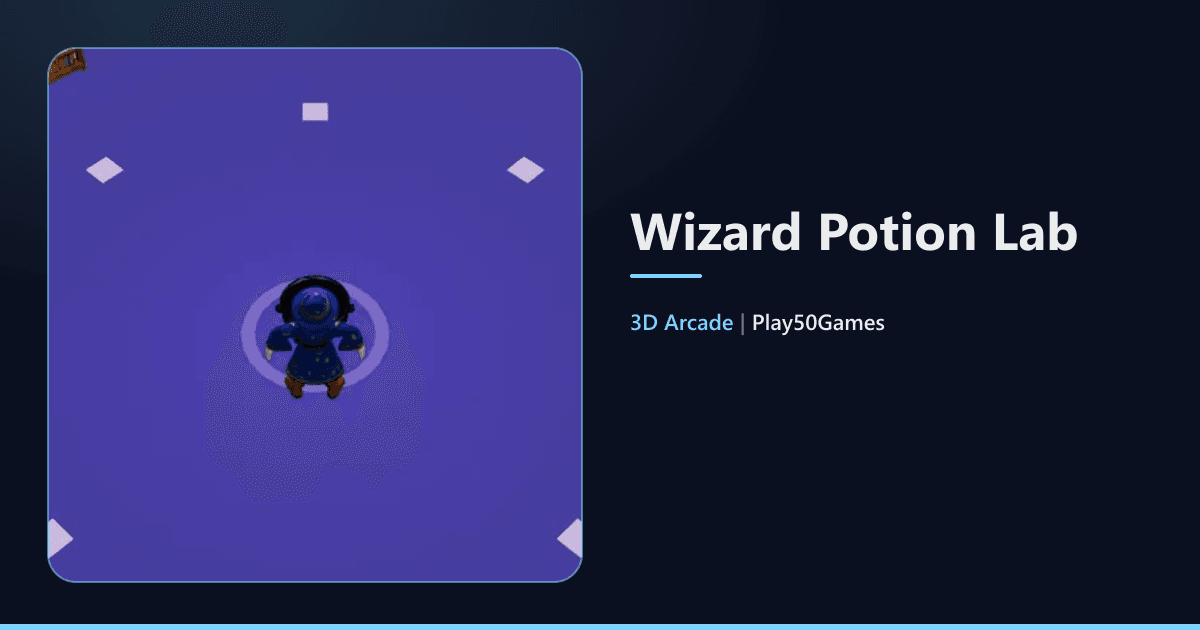
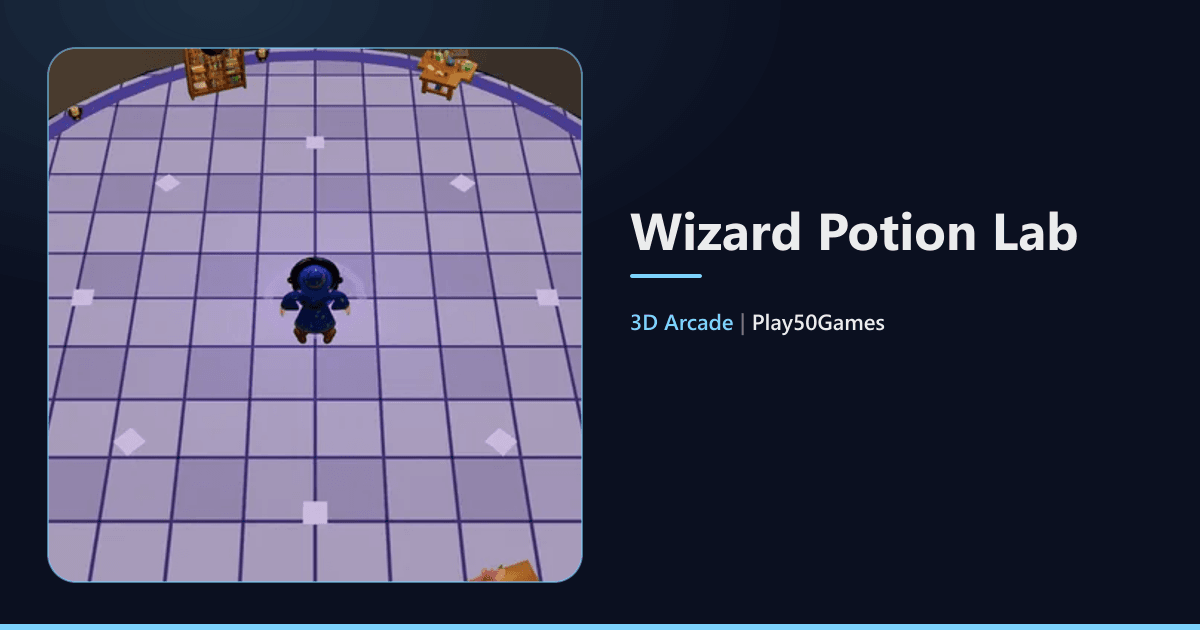
wizard-potion-lab: flagstone floor and lab decor beyond the walls, thumbnail and OG re-shot

diff --git a/play50games-frontend/src/arcade3d/games/wizard-potion-lab/Scene.tsx b/play50games-frontend/src/arcade3d/games/wizard-potion-lab/Scene.tsx
@@ -13,6 +13,7 @@ import {
    LatheGeometry,
    MeshStandardMaterial,
    OctahedronGeometry,
+   RepeatWrapping,
    Quaternion,
    SphereGeometry,
    Vector2,
@@ -29,7 +30,7 @@ import { useInput } from "@/arcade3d/core/input";
 import { useLevel } from "@/arcade3d/core/level";
 import { randomSeed } from "@/arcade3d/core/math";
 import { useQuality } from "@/arcade3d/core/quality";
-import { Instanced, type InstancePart } from "@/arcade3d/core/render";
+import { Instanced, useCanvasTexture, type InstancePart } from "@/arcade3d/core/render";
 import { HumanoidModel, aimArm, cheerPose, gaitPhaseStep, idlePose, useHumanoidPose, walkPose, wrapPhase } from "@/arcade3d/core/rig";
 import { CAULDRON_INNER_RADIUS_GLB, EXPANSION_GLB_POINTS } from "@/arcade3d/core/sharedAssets";
 import { useFittedView } from "@/arcade3d/core/useFittedView";
@@ -38,7 +39,7 @@ import { useArcadeStore } from "@/arcade3d/core/useArcadeStore";
 import { ASSETS, WIZARD_LANDMARKS, WIZARD_SCALE } from "./assets";
 import { publishLab } from "./Hud";
 import { LEVELS, type WizardLevel } from "./levels";
-import { COLORS, DAMPING, FOLLOW, FOV, INGREDIENT_LOOK, candleSpots, aimBounds, lookAtFor, runeSpots, viewFor, wallCapSpots, wallSpots } from "./looks";
+import { COLORS, DAMPING, FOLLOW, FOV, INGREDIENT_LOOK, candleSpots, aimBounds, drawFlagstones, labDecor, lookAtFor, runeSpots, viewFor, wallCapSpots, wallSpots } from "./looks";
 import { BallPrimitive, BookPrimitive, CauldronPrimitive, TablePrimitive, WizardFigure } from "./Primitives";
 import {
    MAX_SPEED,
@@ -214,6 +215,14 @@ function LevelScene() {
       () => run.shelves.map((shelf) => ({ x: shelf.x, y: 0, z: shelf.z, rotY: shelf.angle + Math.PI })),
       [run],
    );
+   const decor = useMemo(() => labDecor(level), [level]);
+   const flagstones = useCanvasTexture(256, 256, drawFlagstones);
+   useMemo(() => {
+      flagstones.wrapS = RepeatWrapping;
+      flagstones.wrapT = RepeatWrapping;
+      flagstones.repeat.set(level.radius, level.radius);
+      flagstones.needsUpdate = true;
+   }, [flagstones, level.radius]);
    const parts = useMemo(() => ingredientParts(), []);
    const brewMat = useMemo(() => new MeshStandardMaterial({
       color: COLORS.brewIdle,
@@ -333,7 +342,7 @@ function LevelScene() {
          </mesh>
          <mesh rotation-x={-Math.PI / 2} position={[0, 0.012, 0]}>
             <circleGeometry args={[level.radius - 0.05, 48]} />
-            <meshStandardMaterial color={COLORS.floor} emissive={COLORS.floor} emissiveIntensity={level.lighting === "night" ? 0.7 : 0.3} roughness={0.88} />
+            <meshStandardMaterial map={flagstones} color="#ffffff" emissive={COLORS.floor} emissiveMap={flagstones} emissiveIntensity={level.lighting === "night" ? 0.7 : 0.35} roughness={0.88} />
          </mesh>
          <mesh rotation-x={-Math.PI / 2} position={[0, 0.02, 0]}>
             <ringGeometry args={[level.radius - 0.55, level.radius - 0.2, 48]} />
@@ -385,6 +394,10 @@ function LevelScene() {
                </>
             }
          />
+         {/* lab dressing beyond the wall ring: shelves, cauldrons, tall candles (outside the play area) */}
+         <InstancedModel asset={ASSETS.shelf} spots={decor.shelves} fallback={null} />
+         <InstancedModel asset={ASSETS.cauldron} spots={decor.cauldrons} fallback={null} />
+         <InstancedModel asset={ASSETS.candle} spots={decor.candles} fallback={null} />
          <pointLight position={[0, 1.7, 0]} intensity={level.lighting === "night" ? 12 : level.lighting === "sunset" ? 4 : 0} distance={9} decay={1.5} color={COLORS.glow} />
          <Model asset={ASSETS.cauldron} fallback={<CauldronPrimitive />} />
          <mesh position={[0, DISC_Y, 0]} rotation-x={-Math.PI / 2}>

diff --git a/play50games-frontend/src/arcade3d/games/wizard-potion-lab/looks.ts b/play50games-frontend/src/arcade3d/games/wizard-potion-lab/looks.ts
@@ -162,3 +162,62 @@ export function runeSpots(level: WizardLevel, decor: number): InstanceSpot[] {
    }
    return spots;
 }
+
+/** A flagstone floor drawn once: grey-violet slabs with mortar lines and a little grain (one tile = one metre). */
+export function drawFlagstones(ctx: CanvasRenderingContext2D, w: number, h: number): void {
+   ctx.fillStyle = "#8d86c9";
+   ctx.fillRect(0, 0, w, h);
+   const n = 2;
+   const cw = w / n;
+   const ch = h / n;
+   for (let r = 0; r < n; r++) {
+      for (let c = 0; c < n; c++) {
+         const v = Math.imul(r * 7 + c + 3, 2654435761) >>> 0;
+         const shade = 150 + (v % 40);
+         ctx.fillStyle = `rgb(${shade - 12}, ${shade - 16}, ${shade + 38})`;
+         ctx.fillRect(c * cw + 4, r * ch + 4, cw - 8, ch - 8);
+      }
+   }
+   for (let i = 0; i < 900; i++) {
+      const v = Math.imul(i + 1, 2246822519) >>> 0;
+      ctx.fillStyle = v % 3 === 0 ? "rgba(255,255,255,0.07)" : "rgba(30,20,80,0.10)";
+      ctx.fillRect(v % w, (v >>> 9) % h, 1 + (v % 2), 1 + ((v >>> 4) % 2));
+   }
+   ctx.strokeStyle = "rgba(30,20,80,0.55)";
+   ctx.lineWidth = 6;
+   ctx.strokeRect(0, 0, w, h);
+   ctx.beginPath();
+   ctx.moveTo(cw, 0);
+   ctx.lineTo(cw, h);
+   ctx.moveTo(0, ch);
+   ctx.lineTo(w, ch);
+   ctx.stroke();
+}
+
+export interface LabDecor {
+   shelves: InstanceSpot[];
+   cauldrons: InstanceSpot[];
+   candles: InstanceSpot[];
+}
+
+/** Lab dressing beyond the wall ring (never inside the play area): bookshelves, cauldrons and tall candles. */
+export function labDecor(level: WizardLevel): LabDecor {
+   const out: LabDecor = { shelves: [], cauldrons: [], candles: [] };
+   const nShelves = Math.round(level.radius * 1.7);
+   for (let i = 0; i < nShelves; i++) {
+      const a = (i / nShelves) * Math.PI * 2 + 0.1;
+      const r = level.radius + 1.5;
+      out.shelves.push({ x: Math.sin(a) * r, y: 0, z: Math.cos(a) * r, rotY: a + Math.PI, scale: 1.5 });
+   }
+   for (let i = 0; i < 4; i++) {
+      const a = (i / 4) * Math.PI * 2 + Math.PI / 4;
+      const r = level.radius + 3.2;
+      out.cauldrons.push({ x: Math.sin(a) * r, y: 0, z: Math.cos(a) * r, rotY: a, scale: 1.6 });
+   }
+   for (let i = 0; i < 8; i++) {
+      const a = (i / 8) * Math.PI * 2 + Math.PI / 8;
+      const r = level.radius + 2.4;
+      out.candles.push({ x: Math.sin(a) * r, y: 0, z: Math.cos(a) * r, rotY: a, scale: 3 });
+   }
+   return out;
+}
